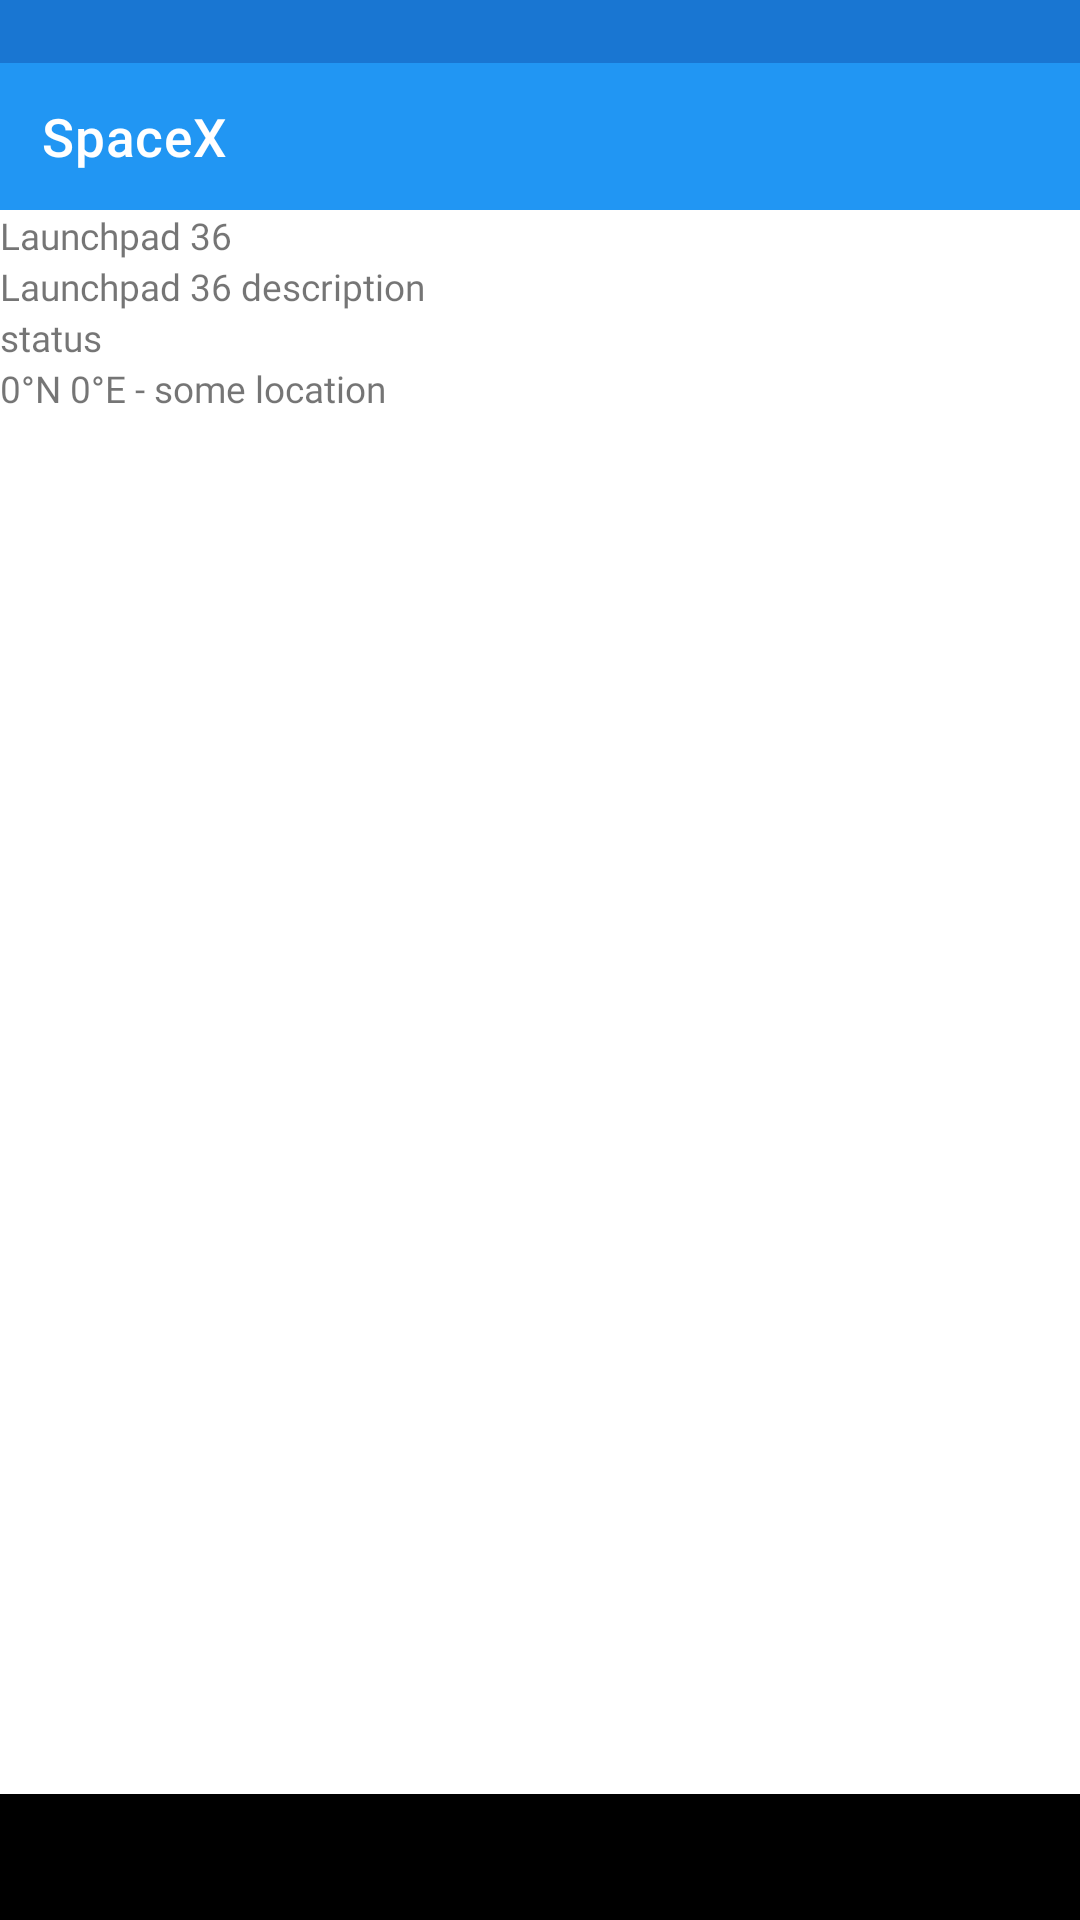
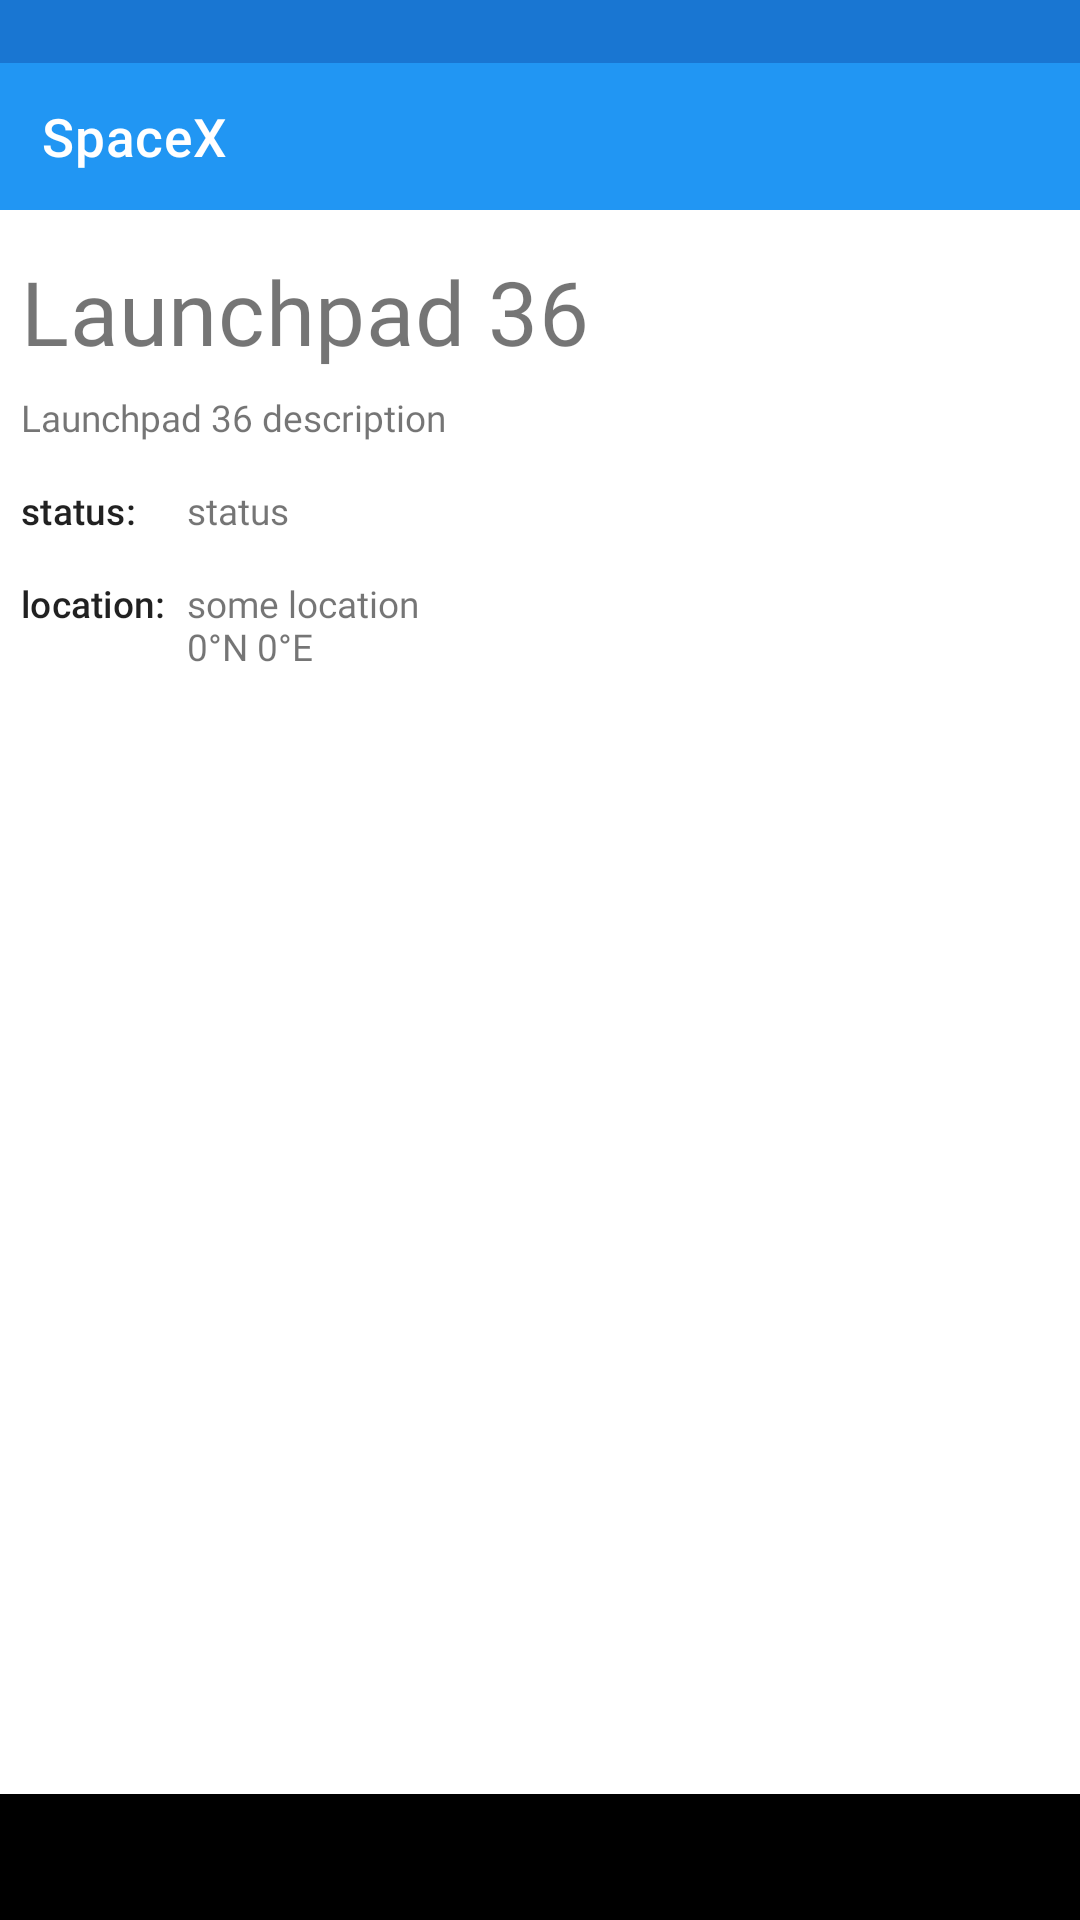
Show more details

diff --git a/app/src/androidTest/java/pl/lgawin/demo/spacex/Mocks.kt b/app/src/androidTest/java/pl/lgawin/demo/spacex/Mocks.kt
@@ -1,5 +1,12 @@
 package pl.lgawin.demo.spacex
 
-const val LOREM_IPSUM_SHORT = "Lorem ipsum dolor sit amet, consectetur adipiscing elit, sed do eiusmod tempor incididunt ut labore et dolore magna aliqua."
-const val LOREM_IPSUM = "Lorem ipsum dolor sit amet, consectetur adipiscing elit, sed do eiusmod tempor incididunt ut labore et dolore magna aliqua. Ut enim ad minim veniam, quis nostrud exercitation ullamco laboris nisi ut aliquip ex ea commodo consequat. Duis aute irure dolor in reprehenderit in voluptate velit esse cillum dolore eu fugiat nulla pariatur. Excepteur sint occaecat cupidatat non proident, sunt in culpa qui officia deserunt mollit anim id est laborum."
-const val LOREM_IPSUM_MULTI_PARAGRAPH = "Lorem ipsum dolor sit amet, consectetur adipiscing elit, sed do eiusmod tempor incididunt ut labore et dolore magna aliqua. Ut enim ad minim veniam, quis nostrud exercitation ullamco laboris nisi ut aliquip ex ea commodo consequat. Duis aute irure dolor in reprehenderit in voluptate velit esse cillum dolore eu fugiat nulla pariatur. Excepteur sint occaecat cupidatat non proident, sunt in culpa qui officia deserunt mollit anim id est laborum.\nSed ut perspiciatis unde omnis iste natus error sit voluptatem accusantium doloremque laudantium, totam rem aperiam, eaque ipsa quae ab illo inventore veritatis et quasi architecto beatae vitae dicta sunt explicabo. Nemo enim ipsam voluptatem quia voluptas sit aspernatur aut odit aut fugit, sed quia consequuntur magni dolores eos qui ratione voluptatem sequi nesciunt. Neque porro quisquam est, qui dolorem ipsum quia dolor sit amet, consectetur, adipisci velit, sed quia non numquam eius modi tempora incidunt ut labore et dolore magnam aliquam quaerat voluptatem. Ut enim ad minima veniam, quis nostrum exercitationem ullam corporis suscipit laboriosam, nisi ut aliquid ex ea commodi consequatur? Quis autem vel eum iure reprehenderit qui in ea voluptate velit esse quam nihil molestiae consequatur, vel illum qui dolorem eum fugiat quo voluptas nulla pariatur?"
+const val LOREM_IPSUM_SHORT =
+    "Lorem ipsum dolor sit amet, consectetur adipiscing elit, sed do eiusmod tempor incididunt ut labore et dolore magna aliqua."
+const val LOREM_IPSUM =
+    "Lorem ipsum dolor sit amet, consectetur adipiscing elit, sed do eiusmod tempor incididunt ut labore et dolore magna aliqua. Ut enim ad minim veniam, quis nostrud exercitation ullamco laboris nisi ut aliquip ex ea commodo consequat. Duis aute irure dolor in reprehenderit in voluptate velit esse cillum dolore eu fugiat nulla pariatur. Excepteur sint occaecat cupidatat non proident, sunt in culpa qui officia deserunt mollit anim id est laborum."
+const val LOREM_IPSUM_MULTI_PARAGRAPH =
+    """Lorem ipsum dolor sit amet, consectetur adipiscing elit, sed do eiusmod tempor incididunt ut labore et dolore magna aliqua. Ut enim ad minim veniam, quis nostrud exercitation ullamco laboris nisi ut aliquip ex ea commodo consequat. Duis aute irure dolor in reprehenderit in voluptate velit esse cillum dolore eu fugiat nulla pariatur. Excepteur sint occaecat cupidatat non proident, sunt in culpa qui officia deserunt mollit anim id est laborum. 
+        |
+        |Sed ut perspiciatis unde omnis iste natus error sit voluptatem accusantium doloremque laudantium, totam rem aperiam, eaque ipsa quae ab illo inventore veritatis et quasi architecto beatae vitae dicta sunt explicabo. Nemo enim ipsam voluptatem quia voluptas sit aspernatur aut odit aut fugit, sed quia consequuntur magni dolores eos qui ratione voluptatem sequi nesciunt. Neque porro quisquam est, qui dolorem ipsum quia dolor sit amet, consectetur, adipisci velit, sed quia non numquam eius modi tempora incidunt ut labore et dolore magnam aliquam quaerat voluptatem. Ut enim ad minima veniam, quis nostrum exercitationem ullam corporis suscipit laboriosam, nisi ut aliquid ex ea commodi consequatur? Quis autem vel eum iure reprehenderit qui in ea voluptate velit esse quam nihil molestiae consequatur, vel illum qui dolorem eum fugiat quo voluptas nulla pariatur?
+        |
+        |At vero eos et accusamus et iusto odio dignissimos ducimus qui blanditiis praesentium voluptatum deleniti atque corrupti quos dolores et quas molestias excepturi sint occaecati cupiditate non provident, similique sunt in culpa qui officia deserunt mollitia animi, id est laborum et dolorum fuga. Et harum quidem rerum facilis est et expedita distinctio. Nam libero tempore, cum soluta nobis est eligendi optio cumque nihil impedit quo minus id quod maxime placeat facere possimus, omnis voluptas assumenda est, omnis dolor repellendus. Temporibus autem quibusdam et aut officiis debitis aut rerum necessitatibus saepe eveniet ut et voluptates repudiandae sint et molestiae non recusandae. Itaque earum rerum hic tenetur a sapiente delectus, ut aut reiciendis voluptatibus maiores alias consequatur aut perferendis doloribus asperiores repellat."""

diff --git a/app/src/androidTest/java/pl/lgawin/demo/spacex/ui/details/LaunchpadDetailsFragmentTest.kt b/app/src/androidTest/java/pl/lgawin/demo/spacex/ui/details/LaunchpadDetailsFragmentTest.kt
@@ -3,12 +3,15 @@ package pl.lgawin.demo.spacex.ui.details
 import androidx.fragment.app.testing.launchFragmentInContainer
 import androidx.test.ext.junit.runners.AndroidJUnit4
 import com.adevinta.android.barista.assertion.BaristaVisibilityAssertions.assertDisplayed
+import com.adevinta.android.barista.assertion.BaristaVisibilityAssertions.assertNotDisplayed
+import com.adevinta.android.barista.interaction.BaristaSleepInteractions.sleep
 import com.karumi.shot.FragmentScenarioUtils.waitForFragment
 import com.karumi.shot.ScreenshotTest
 import kotlinx.coroutines.flow.MutableSharedFlow
 import kotlinx.coroutines.flow.first
 import org.junit.After
 import org.junit.Before
+import org.junit.Ignore
 import org.junit.Test
 import org.junit.runner.RunWith
 import org.koin.core.context.loadKoinModules
@@ -16,11 +19,14 @@ import org.koin.core.context.unloadKoinModules
 import org.koin.dsl.bind
 import org.koin.dsl.module
 import org.koin.test.KoinTest
+import pl.lgawin.demo.spacex.LOREM_IPSUM_MULTI_PARAGRAPH
+import pl.lgawin.demo.spacex.LOREM_IPSUM_SHORT
 import pl.lgawin.demo.spacex.R
 import pl.lgawin.demo.spacex.domain.GetLaunchpadDetailsUseCase
 import pl.lgawin.demo.spacex.domain.LaunchpadDetailsModel
 import pl.lgawin.demo.spacex.domain.LaunchpadLocationModel
 import pl.lgawin.demo.spacex.ui.list.LaunchpadListFragmentDirections
+import java.util.concurrent.TimeUnit
 
 @RunWith(AndroidJUnit4::class)
 class LaunchpadDetailsFragmentTest : ScreenshotTest, KoinTest {
@@ -59,13 +65,39 @@ class LaunchpadDetailsFragmentTest : ScreenshotTest, KoinTest {
             fragmentArgs = LaunchpadListFragmentDirections.actionLaunchpadListToLaunchpadDetails("some-id", "Launchpad name").arguments
         ).waitForFragment()
         assertDisplayed("Launchpad name")
+        assertNotDisplayed("status:")
+        assertNotDisplayed("location:")
         compareScreenshot(fragment)
         // TODO check that view is loading data
         detailsFlow.tryEmit(launchpadDetails)
         assertDisplayed("Launchpad name")
         assertDisplayed("Launchpad description")
+        assertDisplayed("status:")
         assertDisplayed("under construction")
-//        assertDisplayed("""28°33'42.7"N 80°34'38.5"W - Cape Canaveral/Florida""")
+        assertDisplayed("location:")
+//        assertDisplayed("""Cape Canaveral/Florida
+//            |28°33'42.7"N 80°34'38.5"W""".trimMargin())
         compareScreenshot(fragment, name = "data_loaded")
+    }
+
+    @Test
+    fun extremelyLong() {
+        val launchpadDetails = LaunchpadDetailsModel(
+            "some-id",
+            LOREM_IPSUM_SHORT,
+            LOREM_IPSUM_MULTI_PARAGRAPH,
+            "retired",
+            LaunchpadLocationModel(28.5618571, -80.577366, "Cape Canaveral/Florida")
+        )
+        val fragment = launchFragmentInContainer<LaunchpadDetailsFragment>(
+            themeResId = R.style.Theme_SpaceX,
+            fragmentArgs = LaunchpadListFragmentDirections.actionLaunchpadListToLaunchpadDetails("some-id", "Launchpad name").arguments
+        ).waitForFragment()
+        detailsFlow.tryEmit(launchpadDetails)
+        assertDisplayed(LOREM_IPSUM_SHORT)
+        assertDisplayed("retired")
+//        assertDisplayed("""Cape Canaveral/Florida
+//            |28°33'42.7"N 80°34'38.5"W""".trimMargin())
+        compareScreenshot(fragment, name = "extremely_long")
     }
 }

diff --git a/app/src/main/java/pl/lgawin/demo/spacex/ui/details/LaunchpadDetailsFragment.kt b/app/src/main/java/pl/lgawin/demo/spacex/ui/details/LaunchpadDetailsFragment.kt
@@ -3,6 +3,8 @@ package pl.lgawin.demo.spacex.ui.details
 import android.os.Bundle
 import android.view.LayoutInflater
 import android.view.View
+import android.view.View.GONE
+import android.view.View.VISIBLE
 import android.view.ViewGroup
 import androidx.fragment.app.Fragment
 import androidx.navigation.fragment.navArgs
@@ -31,10 +33,14 @@ class LaunchpadDetailsFragment : Fragment(R.layout.fragment_launchpad_details) {
     override fun onViewCreated(view: View, savedInstanceState: Bundle?) {
         super.onViewCreated(view, savedInstanceState)
         viewModel.details.observe(viewLifecycleOwner) {
-            binding.name.text = it.name
-            binding.description.text = it.description
-            binding.status.text = it.status
-            binding.location.text = it.location
+            with(binding) {
+                name.text = it.name
+                description.text = it.description
+                lblStatus.visible = it.status != null
+                status.text = it.status
+                lblLocation.visible = it.status != null
+                location.text = it.location
+            }
         }
     }
 
@@ -43,3 +49,9 @@ class LaunchpadDetailsFragment : Fragment(R.layout.fragment_launchpad_details) {
         _binding = null
     }
 }
+
+private var View.visible: Boolean
+    get() = visibility == VISIBLE
+    set(value) {
+        visibility = if (value) VISIBLE else GONE
+    }

diff --git a/app/src/main/java/pl/lgawin/demo/spacex/ui/details/LaunchpadDetailsViewModel.kt b/app/src/main/java/pl/lgawin/demo/spacex/ui/details/LaunchpadDetailsViewModel.kt
@@ -19,7 +19,8 @@ class LaunchpadDetailsViewModel(
     }
 
     private fun formatLocation(location: LaunchpadLocationModel) =
-        """0°N 0°E - ${location.description}"""
+        """${location.description}
+            |0°N 0°E""".trimMargin()
 
     private fun LaunchpadDetailsModel.mapToUiModel() =
         LaunchpadDetailsUiModel(name, description, status, formatLocation(location))
